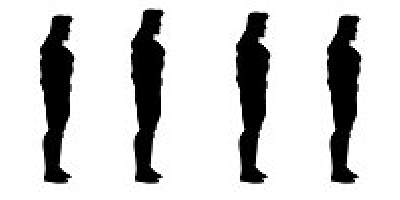
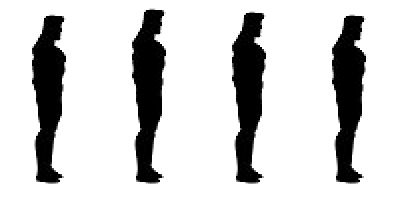
Game Project Move and Background Move Compelete
LOL :+1:

diff --git a/Drills/Game Project/Character_Move.py b/Drills/Game Project/Character_Move.py
@@ -7,19 +7,31 @@ open_canvas(1600,900)
 
 image = None
 Right = None
+Back = None
+Front = None
 
 Jump_Switch = False
+Run_Switch = False
 
 class Right_Sprite:
+    image = None
     def __init__(self):
         global Jump_Switch
-        self.x, self.y = 110, 190
+        self.x, self.y = 110, 100
+        self.x1 = 110
         self.frame = 0
         os.chdir("C:\\Users\\김민규\\Documents\\Github\\2DGP\\Drills\\Game Project\\Resources")
-        self.Run = load_image('Right_run.png')
-        self.Jump = load_image("Jump_Right.png")
+        if Right_Sprite.image == None:
+            self.Run = load_image('Right_run.png')
+            self.Jump = load_image("Jump_Right.png")
+            self.Idle = load_image("Idle.png")
 
     def draw(self):
+        Right.frame = (Right.frame + 1) % 4
+        self.Idle.clip_draw(self.frame * 100, 0, 100, 200, self.x, self.y)
+        delay(0.15)
+
+    def jump(self):
         global Jump_Switch
         self.Jump.clip_draw(self.frame * 120, 0, 120, 190, self.x, self.y)
         if (Jump_Switch == True):
@@ -31,21 +43,17 @@ class Right_Sprite:
                 Right.y += 25
                 Right.x += 40
             if (Right.frame == 0):
-                Right.x = 100
-                Right.y = 190
+                Right.y = 100
                 Jump_Switch = False
-
-    def jump(self):
-
-        self.Jump.clip_draw(self.frame * 120, 0, 120, 190, self.x, self.y)
-
-
-
 
     def run(self):
         self.Run.clip_draw(self.frame * 110, 0, 110, 190, self.x, self.y)
         Right.frame = (Right.frame + 1) % 6
-        Right.x += 15
+        if(Right.x > 500):
+            Right.x1 += 10
+        else:
+            Right.x += 10
+        delay(0.03)
 
     def walk(self):
         pass
@@ -53,21 +61,40 @@ class Right_Sprite:
     def update(self):
         pass
 
+class Background:
+    def __init__(self):
+        os.chdir("C:\\Users\\김민규\\Documents\\Github\\2DGP\\Drills\\Game Project\\Resources")
+        self.image = load_image("BackGround_1.png")
+    def draw(self):
+        self.image.draw(500 - Right.x / 5 - Right.x1/5, 1000)
+
+class Frontground:
+    def __init__(self):
+        os.chdir("C:\\Users\\김민규\\Documents\\Github\\2DGP\\Drills\\Game Project\\Resources")
+        self.image = load_image("Grass.png")
+    def draw(self):
+        for i in range(0,5):
+            self.image.draw(2500 * i - Right.x - Right.x1,1000)
 
 def enter():
-    global Right
+    global Right,Back,Front
+    Back = Background()
     Right = Right_Sprite()
+    Front = Frontground()
 
 def handle_events():
     events = get_events()
     global Jump_Switch
+    global Run_Switch
     for event in events:
         if event.type == SDL_QUIT:
             pass
-        if (event.type, event.key) == (SDLK_RIGHT):
-            Right.run()
-
+        if (event.type, event.key) == (SDL_KEYDOWN,SDLK_RIGHT):
+            Run_Switch = True
+        elif(event.type, event.key) == (SDL_KEYUP,SDLK_RIGHT):
+            Run_Switch = False
         if (event.type, event.key) ==  (SDL_KEYDOWN, SDLK_SPACE):
+            Right.frame = 0
             Jump_Switch = True
 
 def exit():
@@ -84,7 +111,15 @@ def update():
 
 def draw():
     clear_canvas()
-    Right.draw()
+    Back.draw()
+    if(Jump_Switch == True):
+        Right.jump()
+    elif(Run_Switch == True):
+        Right.run()
+        delay(0.01)
+    else:
+        Right.draw()
+    Front.draw()
     update_canvas()
 
 
